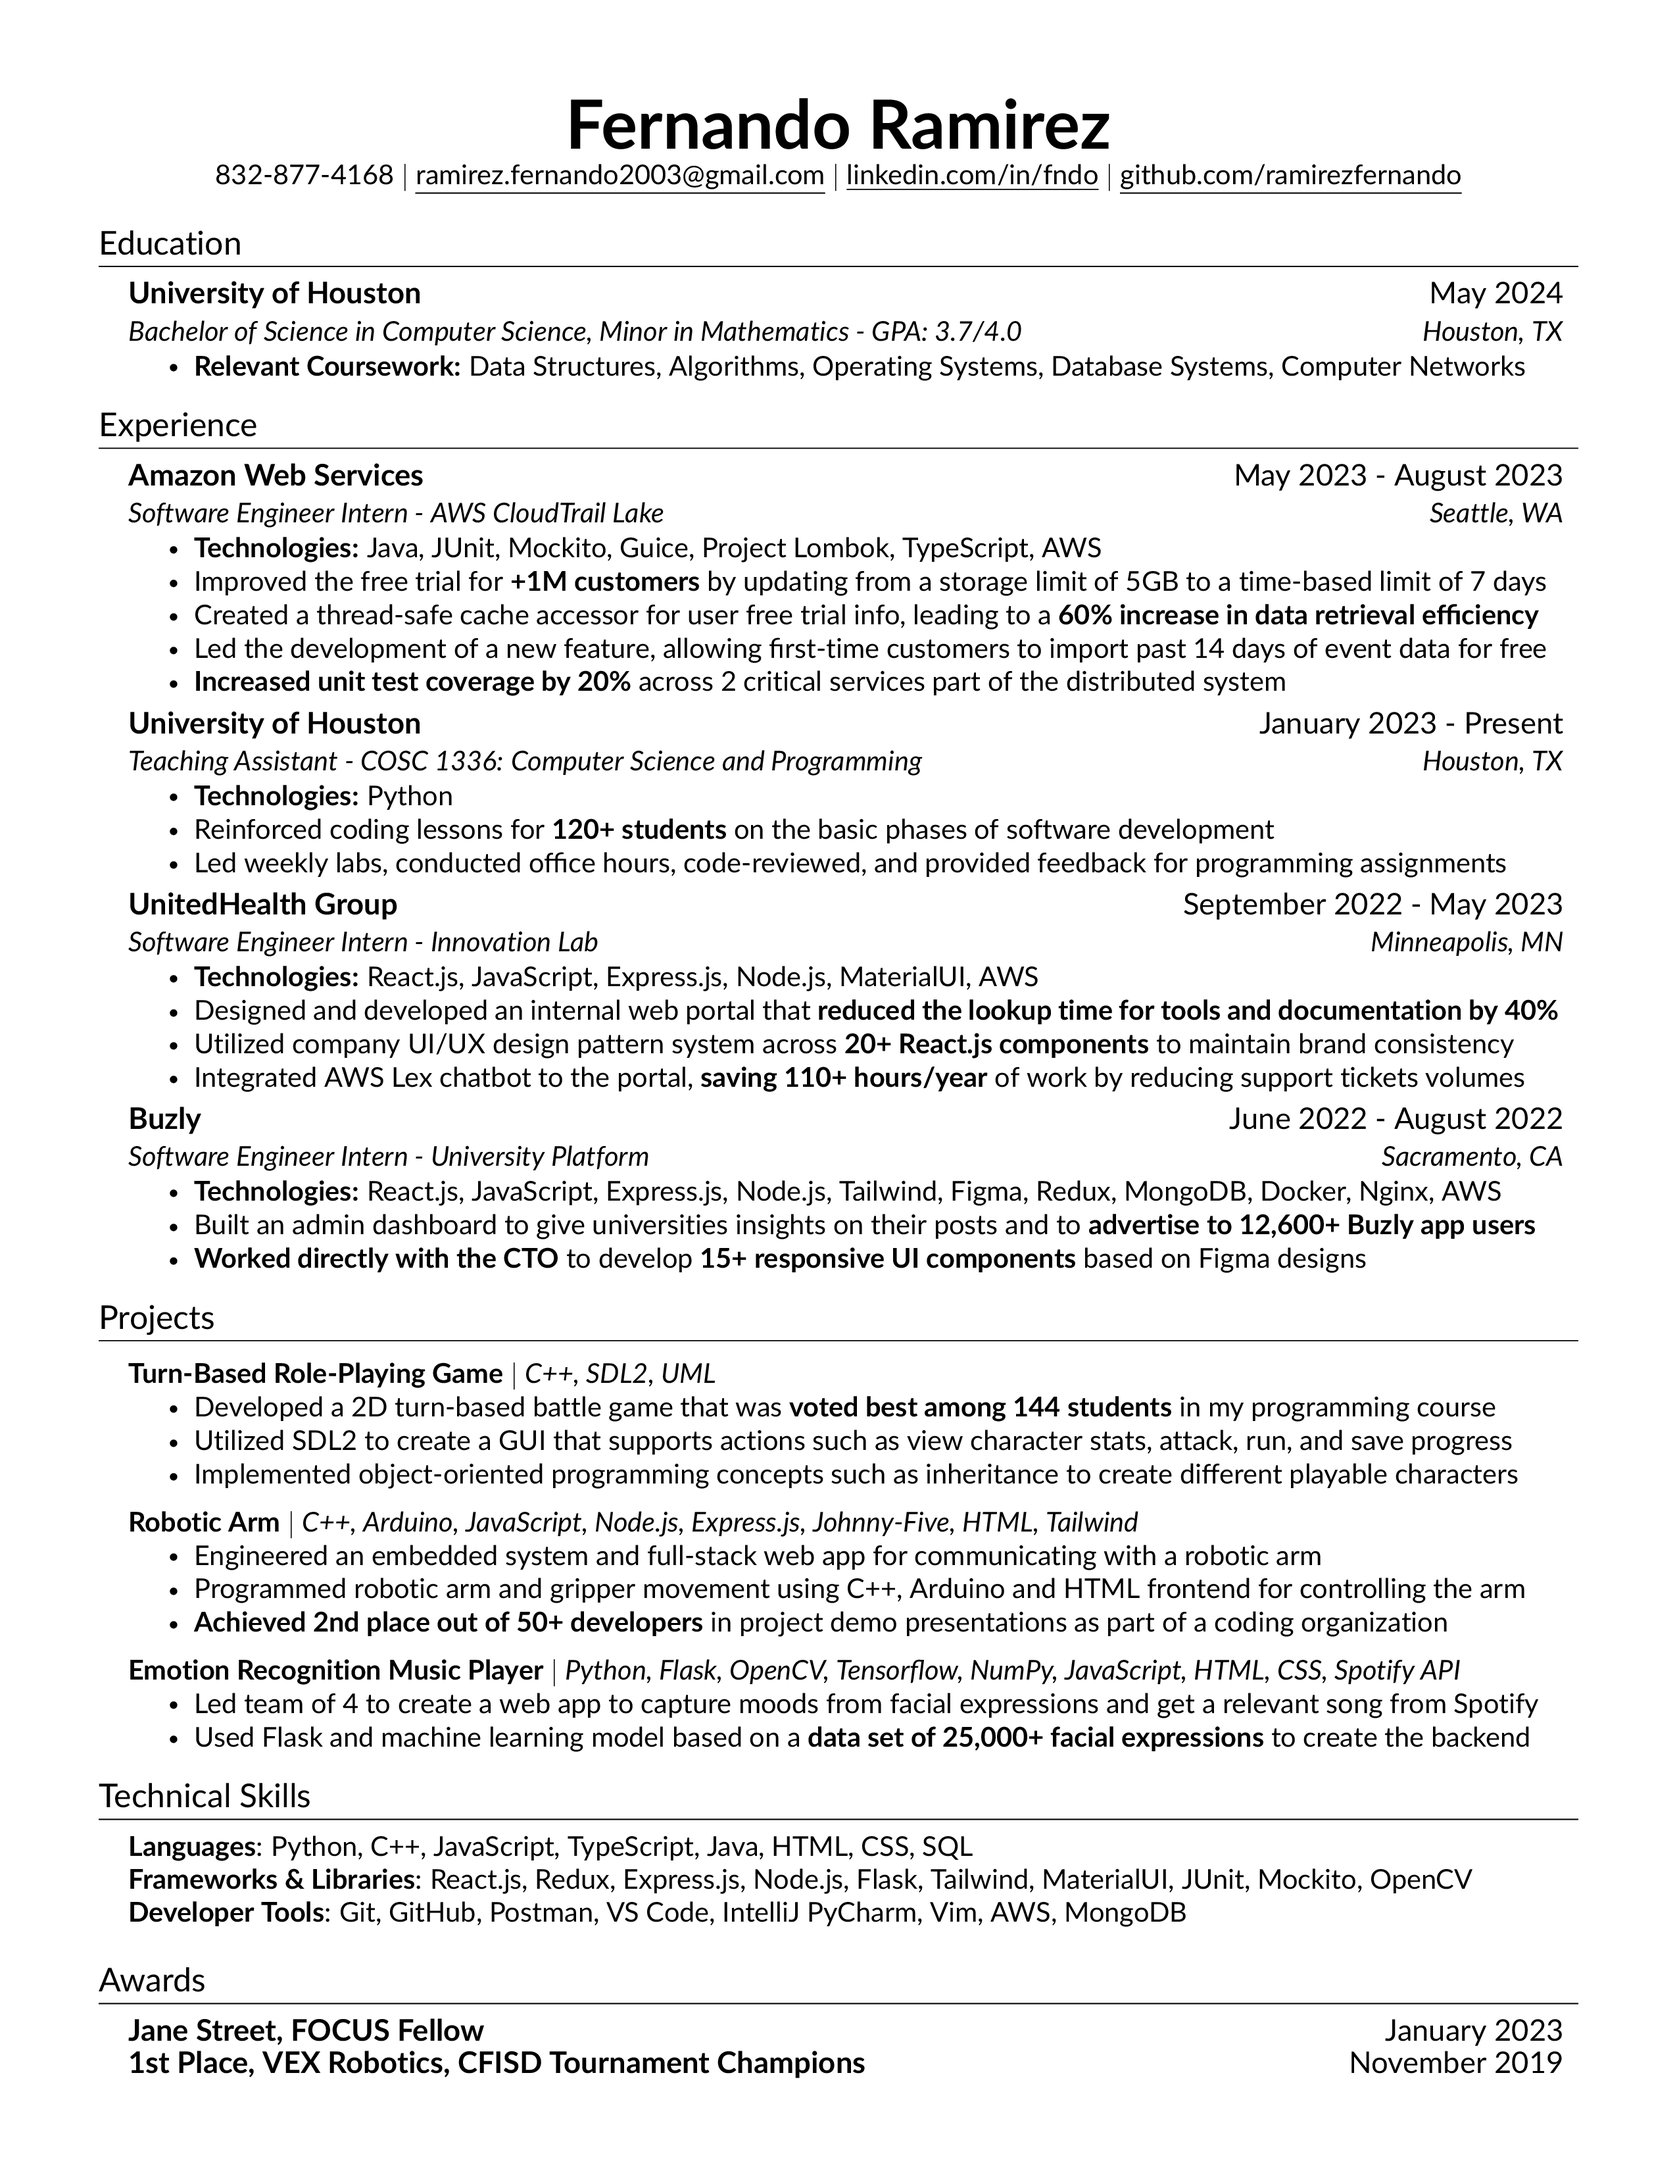
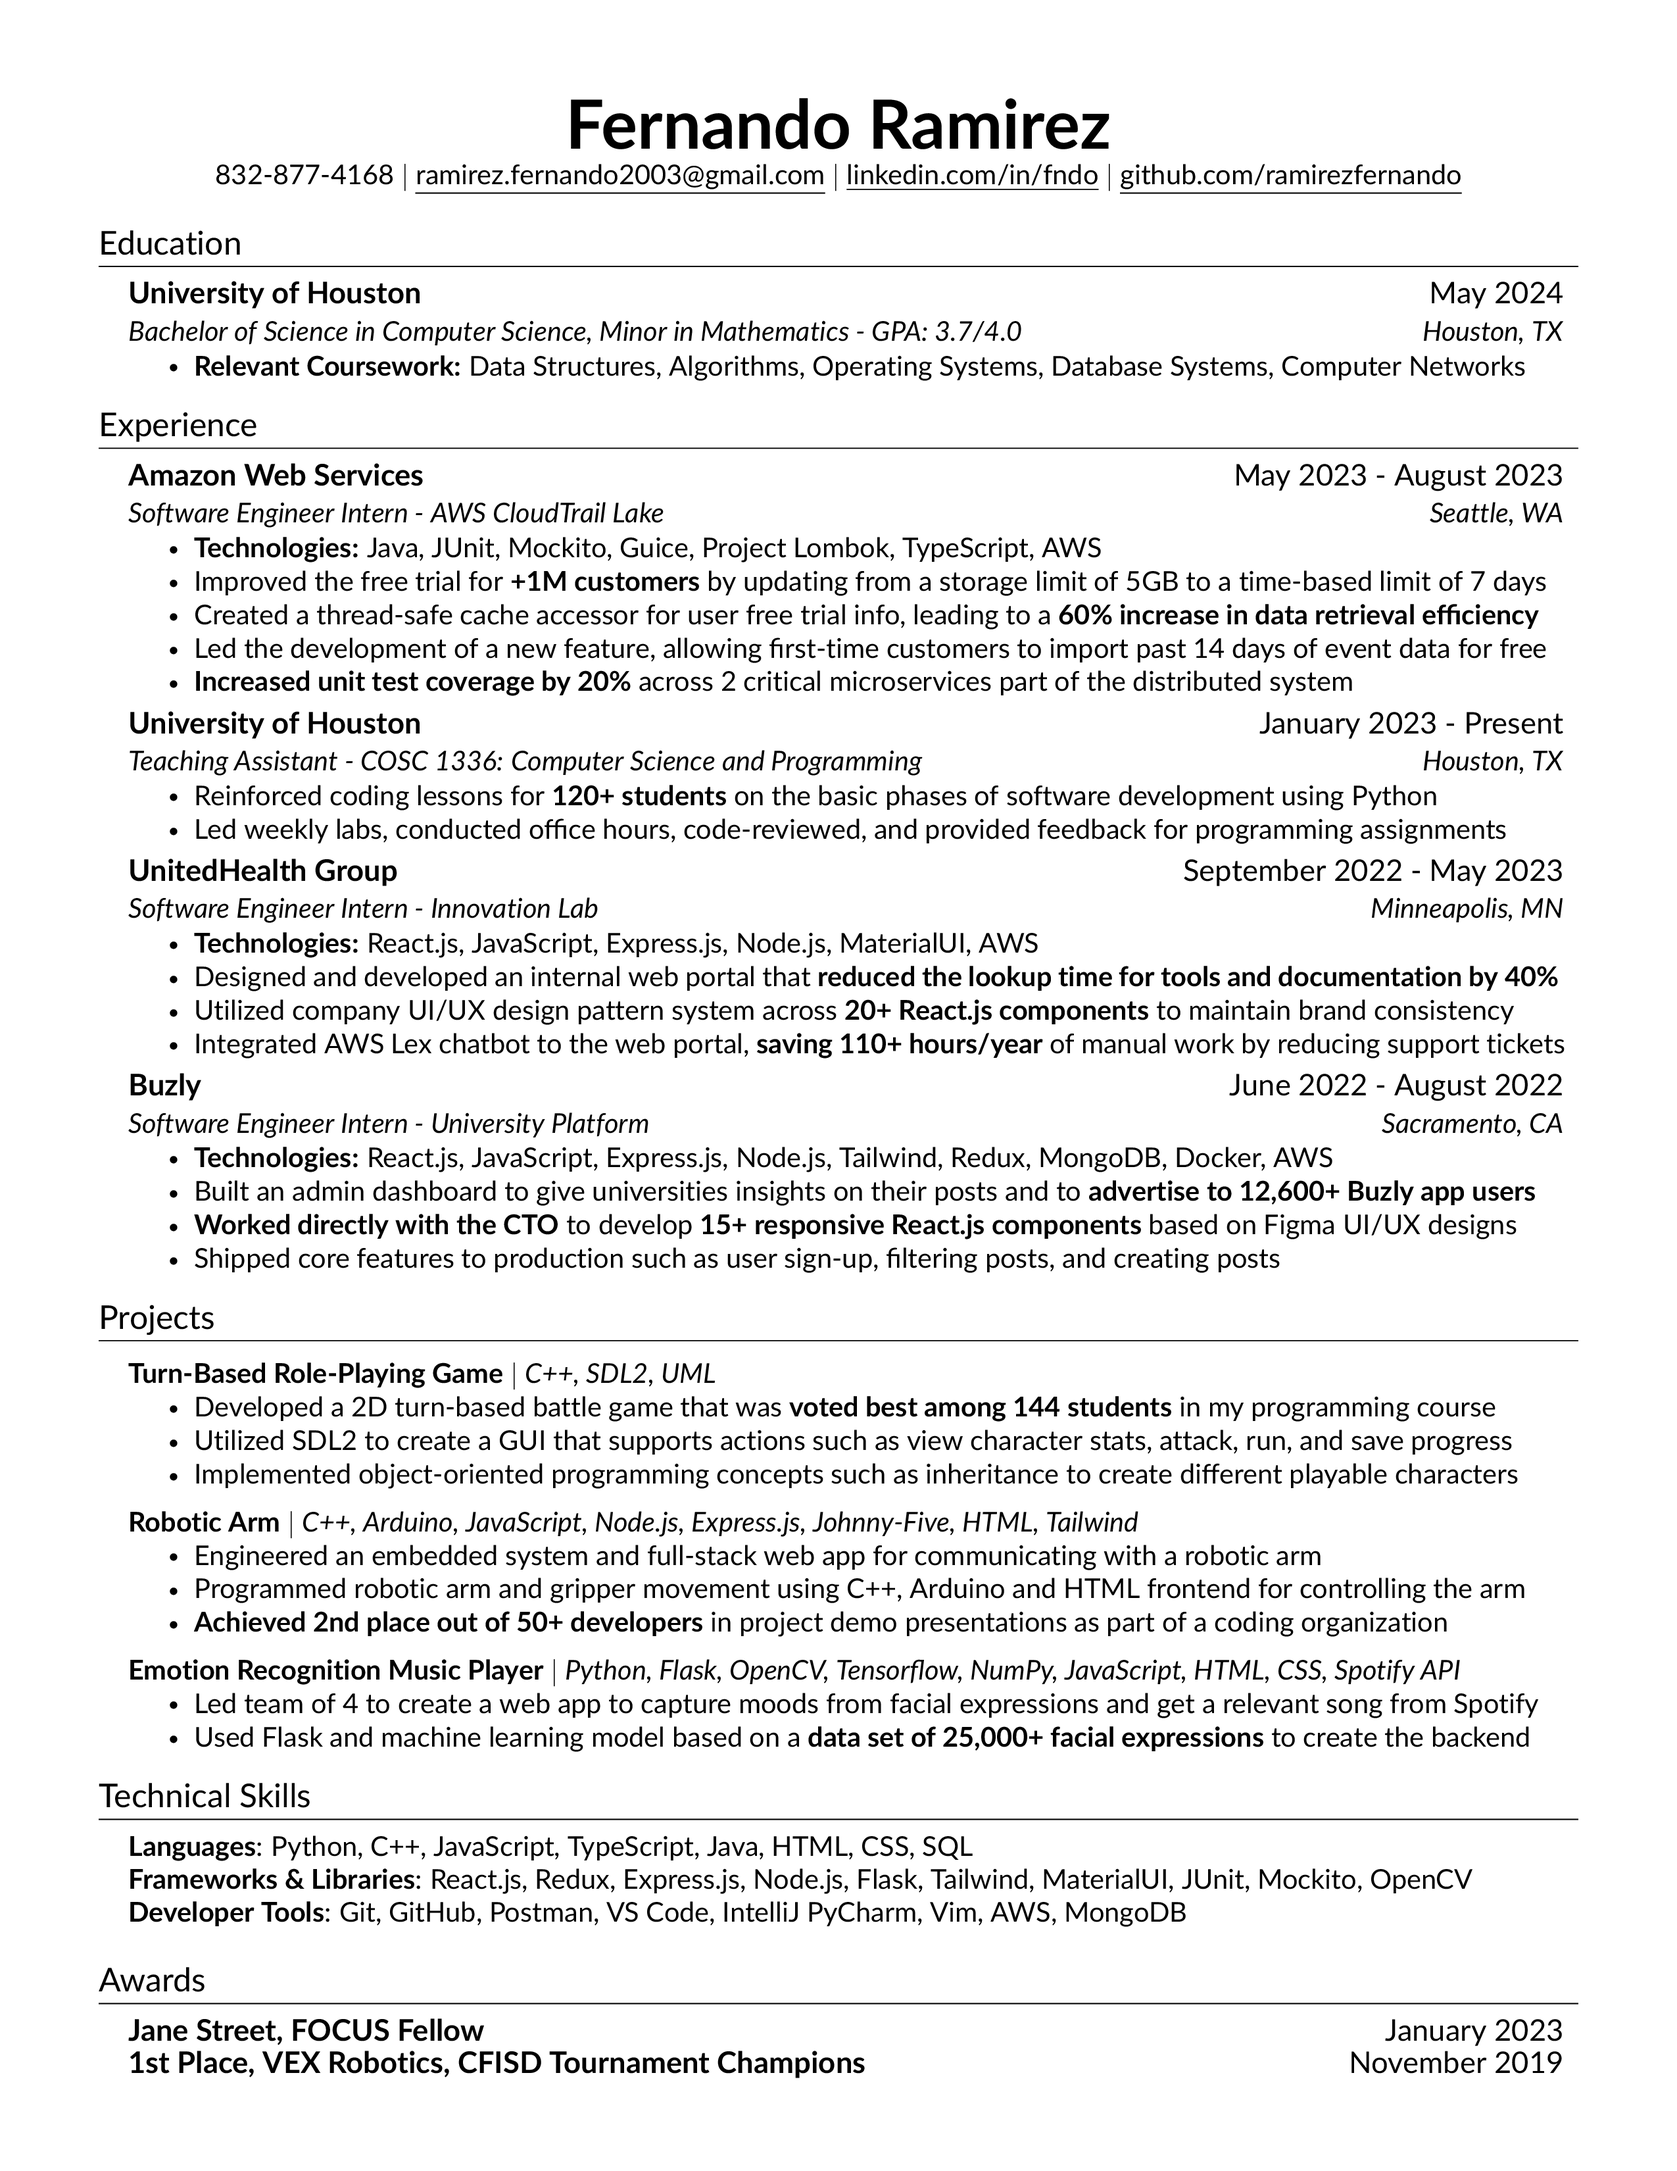
Update resume

Changed region(s): [[0.062, 0.3121, 0.9294, 0.593]]

diff --git a/src/components/experience.tex b/src/components/experience.tex
@@ -13,16 +13,14 @@
         
         \resumeItem{Led the development of a new feature, allowing first-time customers to import past 14 days of event data for free}
         
-        \resumeItem{\textbf{Increased unit test coverage by 20\%} across 2 critical services part of the distributed system}
+        \resumeItem{\textbf{Increased unit test coverage by 20\%} across 2 critical microservices part of the distributed system}
     \resumeItemListEnd
     
     \resumeSubheading
     {University of Houston}{January 2023 - Present}
     {Teaching Assistant - COSC 1336: Computer Science and Programming}{Houston, TX}
     \resumeItemListStart      
-        \resumeItem{\textbf{Technologies:} Python}
-
-        \resumeItem{Reinforced coding lessons for \textbf{120+ students} on the basic phases of software development} 
+        \resumeItem{Reinforced coding lessons for \textbf{120+ students} on the basic phases of software development using Python} 
 
         \resumeItem{Led weekly labs, conducted office hours, code-reviewed, and provided feedback for programming assignments} 
     \resumeItemListEnd
@@ -37,17 +35,19 @@
         
         \resumeItem{Utilized company UI/UX design pattern system across \textbf{20+ React.js components} to maintain brand consistency} 
 
-        \resumeItem{Integrated AWS Lex chatbot to the portal, \textbf{saving 110+ hours/year} of work by reducing support tickets volumes} 
+        \resumeItem{Integrated AWS Lex chatbot to the web portal, \textbf{saving 110+ hours/year} of manual work by reducing support tickets} 
     \resumeItemListEnd
 
     \resumeSubheading
     {Buzly}{June 2022 - August 2022}
     {Software Engineer Intern - University Platform}{Sacramento, CA}
     \resumeItemListStart
-        \resumeItem{\textbf{Technologies:} React.js, JavaScript, Express.js, Node.js, Tailwind, Figma, Redux, MongoDB, Docker, Nginx, AWS}
+        \resumeItem{\textbf{Technologies:} React.js, JavaScript, Express.js, Node.js, Tailwind, Redux, MongoDB, Docker, AWS}
         
         \resumeItem{Built an admin dashboard to give universities insights on their posts and to \textbf{advertise to 12,600+ Buzly app users}} 
 
-        \resumeItem{\textbf{Worked directly with the CTO} to develop \textbf{15+ responsive UI components} based on Figma designs} 
+        \resumeItem{\textbf{Worked directly with the CTO} to develop \textbf{15+ responsive React.js components} based on Figma UI/UX designs}
+        
+        \resumeItem{Shipped core features to production such as user sign-up, filtering posts, and creating posts} 
     \resumeItemListEnd
 \resumeSubHeadingListEnd
